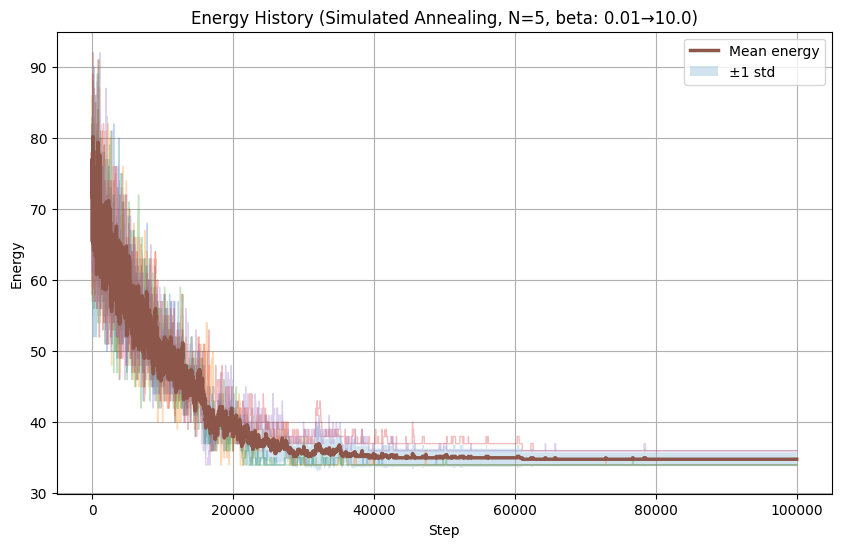
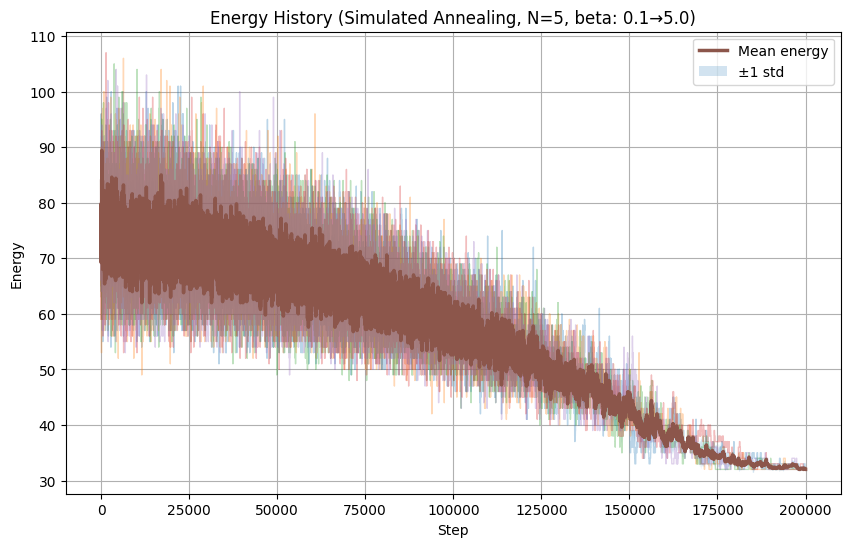
Added exponential annealing

diff --git a/mcmc_new.py b/mcmc_new.py
@@ -235,12 +235,24 @@ def linear_annealing_beta(beta_start, beta_end, n_steps):
         return beta_start + frac * (beta_end - beta_start)
     return schedule
 
-def exponential_annealing_beta(beta, n_steps):
-    def schedule(step):
-        return np.exp(beta*step)
-    return schedule
+def exponential_annealing_beta(beta_start, beta_end, n_steps):
 
-    
+    if n_steps <= 1:
+        # Degenerate case: always return beta_end
+        def schedule(_):
+            return beta_end
+        return schedule
+
+    # Precompute the log ratio so we don't recompute it every time
+    log_ratio = np.log(beta_end / beta_start)
+
+    def schedule(step):
+        # Clamp step to [0, n_steps-1] just in case
+        step = np.clip(step, 0, n_steps - 1)
+        t = step / (n_steps - 1)
+        return beta_start * np.exp(log_ratio * t)
+
+    return schedule
 
 
 # ------------------------------
@@ -561,7 +573,7 @@ if __name__ == "__main__":
     # Example 2: simulated annealing with linear schedule
     beta_start = 0.1   # high temperature (weak penalty on uphill moves)
     beta_end = 5.0     # low temperature
-    beta_schedule_sa = linear_annealing_beta(beta_start, beta_end, n_steps)
+    beta_schedule_sa = exponential_annealing_beta(beta_start, beta_end, n_steps)
 
     print(
         f"\nRunning {n_runs} runs with simulated annealing "
